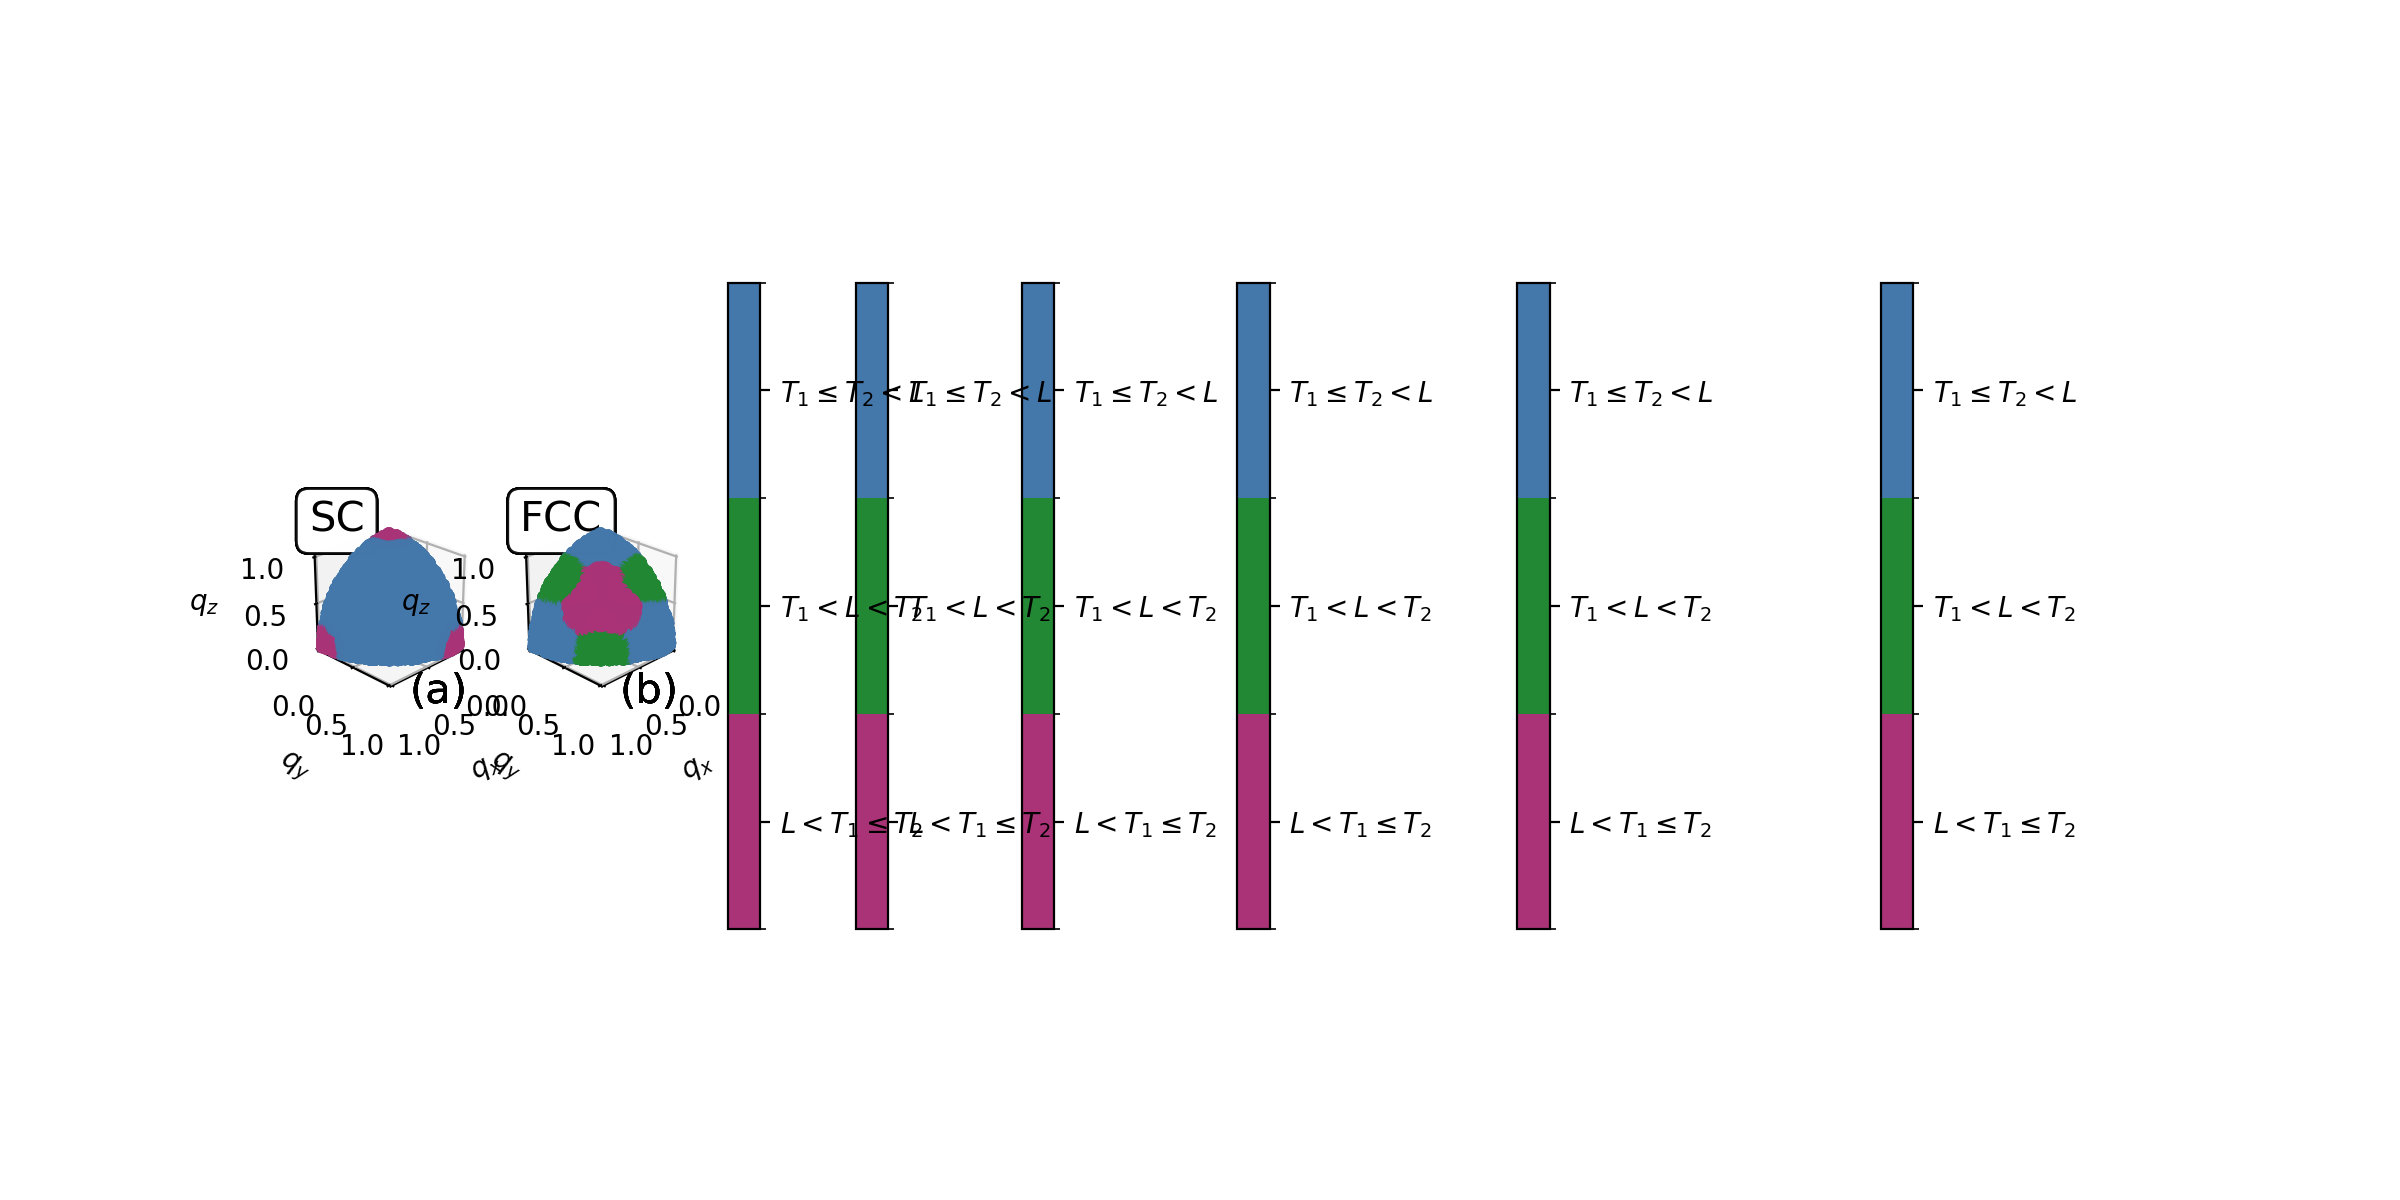
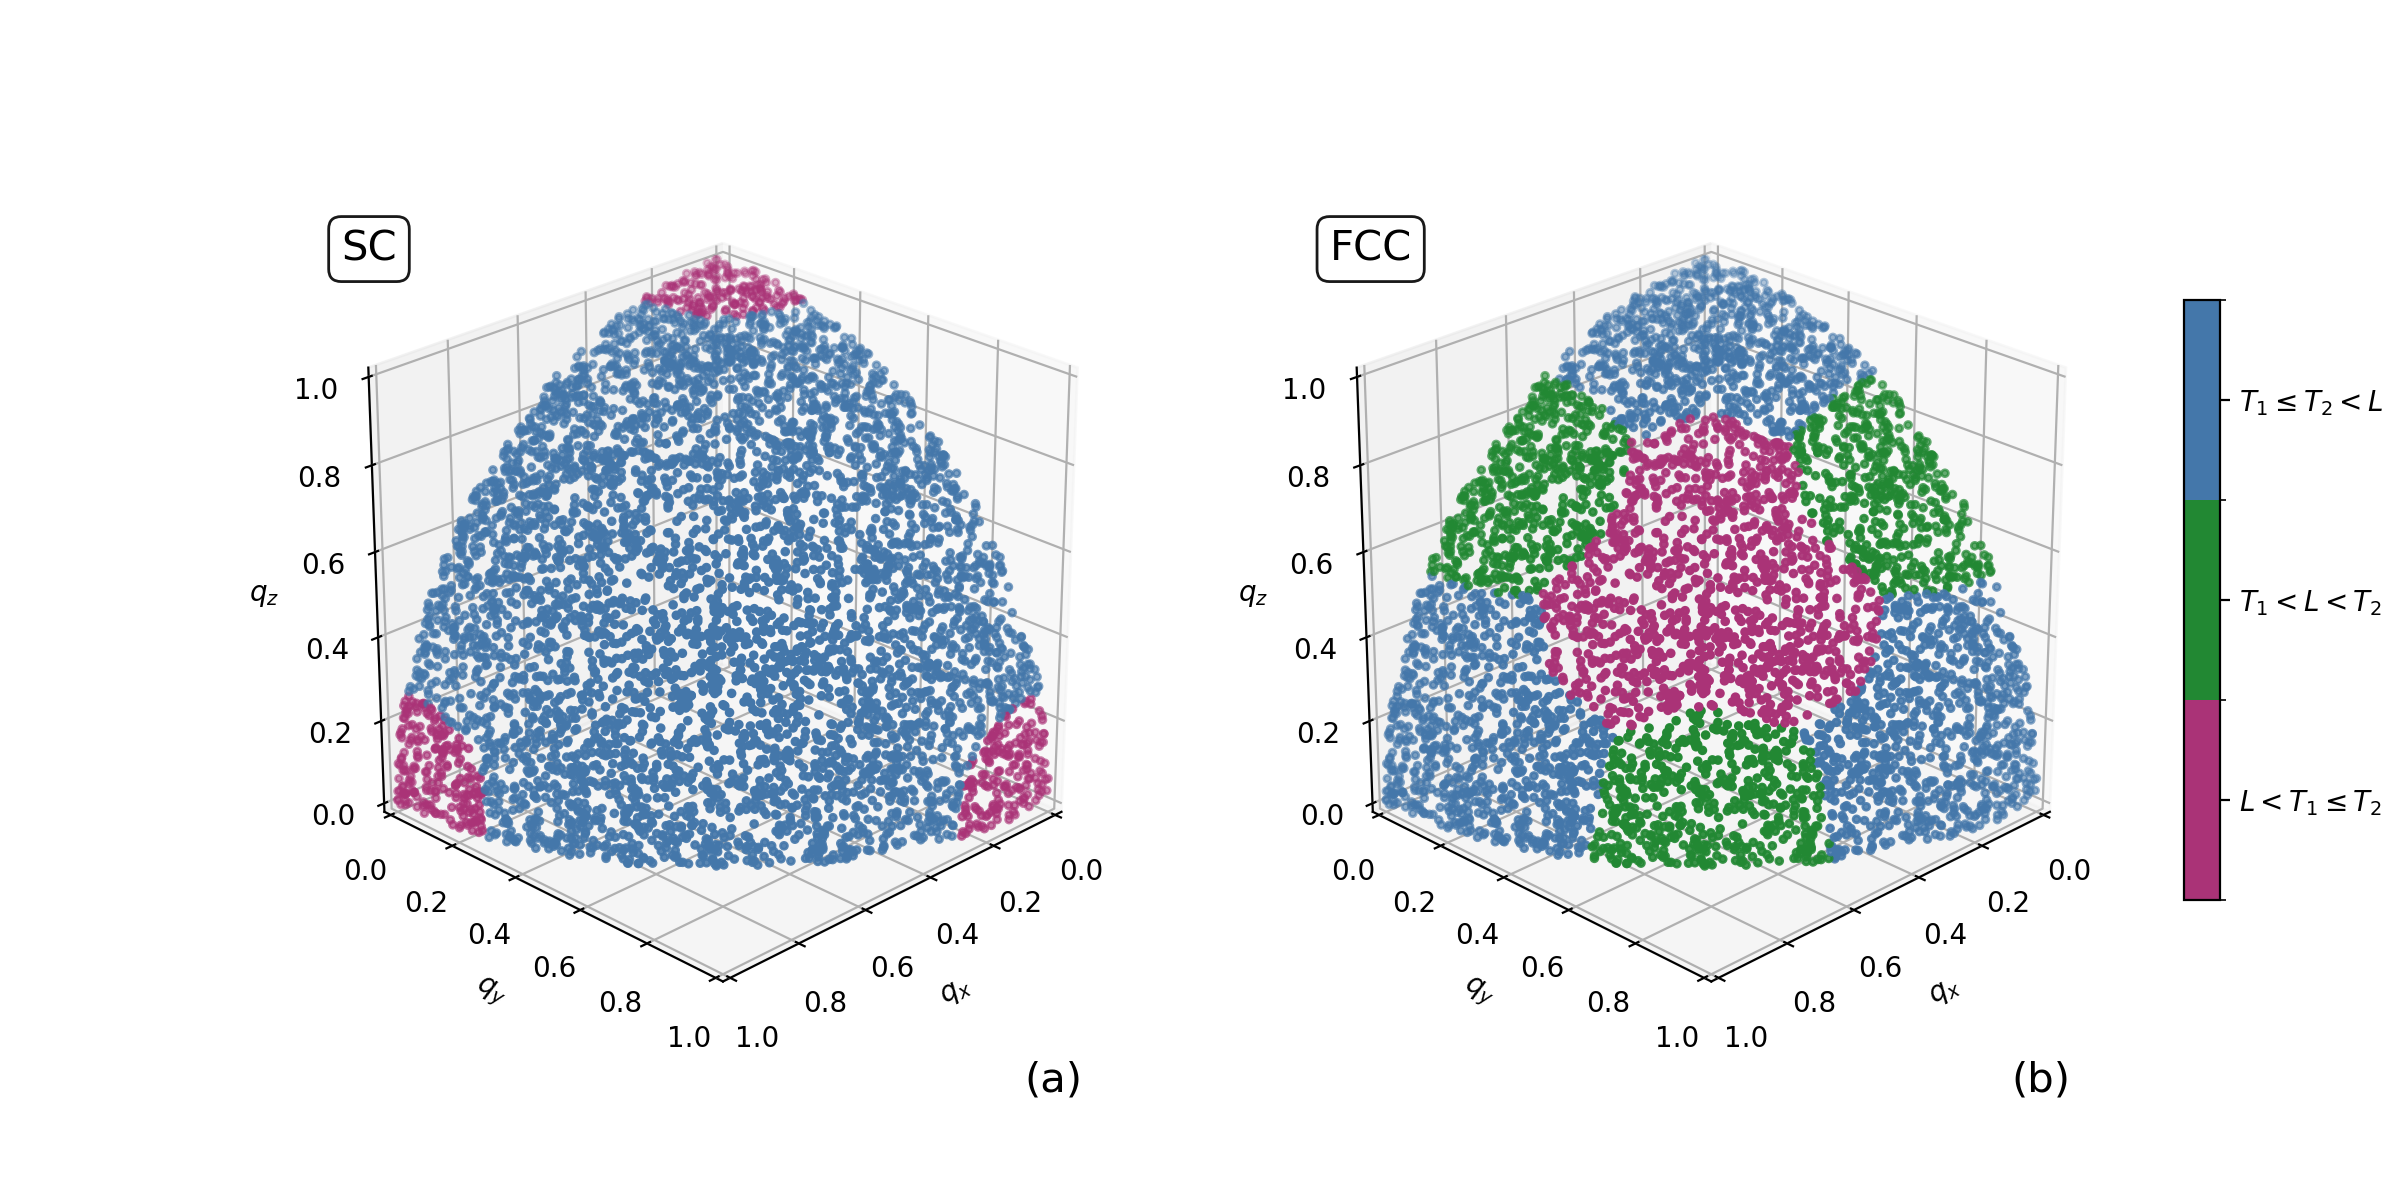
Almost definitive, repeated code top be fixed

diff --git a/Multi_Dir/plot_sphere.py b/Multi_Dir/plot_sphere.py
@@ -19,37 +19,54 @@ box_style = dict(boxstyle="round,pad=0.3", facecolor="white",
 fig = plt.figure(figsize=(12, 6))
 axs = [fig.add_subplot(1, 2, i + 1, projection="3d") for i in range(2)]
 
-#number of the file you want to plot
+# Reserve space on the right and create a fixed axis for the colorbar
+fig.subplots_adjust(right=0.88)
+cax = fig.add_axes([0.91, 0.25, 0.015, 0.5])   
+
+# Create the colorbar ONCE, from a ScalarMappable (norm + cmap), independent of the data
+sm = plt.cm.ScalarMappable(norm=norm, cmap=cmap)
+cbar = fig.colorbar(sm, cax=cax, ticks=[0, 1, 2])
+cbar.ax.set_yticklabels([r'$L < T_1 \leq T_2$', r'$T_1 < L < T_2$', r'$T_1 \leq T_2 < L$'])
+
+# Number of files to plot
 N_Files = 9
 
-for file_number in range(0,N_Files):
-    for ax, lattice,letter in zip(axs, LATTICES, letters):
+for file_number in range(N_Files):
+    for ax, lattice, letter in zip(axs, LATTICES, letters):
+        # Clear the previous scatter (also resets labels, limits and view,
+        # which are all set again below)
+        ax.cla()
+
         fname = f"/home/tonelli/Tesi/Multi_Dir/Results/Sphere_Results/Sphere_Results_{lattice}/{file_number}_Sphere_Results_{lattice}.txt"
         try:
             qx, qy, qz, label = np.loadtxt(fname, unpack=True)
         except FileNotFoundError:
-            raise SystemExit(f"Errore: il file {fname} non esiste.")
+            raise SystemExit(f"Error: file {fname} does not exist.")
 
-        sc = ax.scatter(qx, qy, qz, c=label, cmap=cmap, norm=norm, s=6)
+        # Scatter plot colored by label
+        ax.scatter(qx, qy, qz, c=label, cmap=cmap, norm=norm, s=6)
 
+        # Axis labels (z label kept horizontal)
         ax.set_xlabel("$q_x$"); ax.set_ylabel("$q_y$")
-        ax.zaxis.set_rotate_label(False)          
+        ax.zaxis.set_rotate_label(False)
         ax.set_zlabel("$q_z$", rotation=0)
+
+        # Fixed limits and cubic aspect ratio
         ax.set_xlim(0, 1); ax.set_ylim(0, 1); ax.set_zlim(0, 1)
         ax.set_box_aspect((1, 1, 1))
+
+        # Panel letter (bottom right) and lattice name (top left)
         ax.text2D(0.95, -0.1, letter, transform=ax.transAxes,
-                fontsize=15, ha="right", va="bottom")
+                  fontsize=15, ha="right", va="bottom")
+        ax.text2D(0.05, 0.92, lattice, transform=ax.transAxes,
+                  fontsize=15, bbox=box_style)
+
+        # Camera angle
         ax.view_init(elev=25, azim=45)
         # ax.set_proj_type('ortho')
-        ax.text2D(0.05, 0.92, lattice, transform=ax.transAxes,
-                fontsize=15, bbox=box_style)
 
-    # Shared colorbar
-    cbar = fig.colorbar(sc, ax=axs, ticks=[0, 1, 2], shrink=0.7, pad=0.08)
-    cbar.ax.set_yticklabels([r'$L < T_1 \leq T_2$', r'$T_1 < L < T_2$', r'$T_1 \leq T_2 < L$'])
-
+    # Save the figure for this file
     fig.savefig(f"/home/tonelli/Tesi/Multi_Dir/Plots/Sphere_Plots/Sphere_Plot_{file_number}.png", dpi=200)
-    #plt.show()
-
+    # plt.show()
  
     
